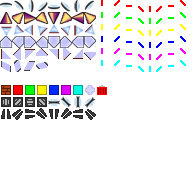
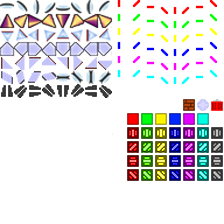
aggiunti filtri polarizzati colorati
git-svn-id: svn+ssh://pixbits.com/svn/cpp-lazers@19 c3e5c5ec-6158-4a85-881a-c4ab5472a772

diff --git a/pieces.h b/pieces.h
@@ -60,12 +60,14 @@ class Piece
     PieceType type_;
     Direction rotation_;
     LaserColor color_;
+    bool movable, roteable;
+  
     Field *field;
   
     virtual Position gfxTile() = 0;
   
   public:
-    Piece(PieceType type, Direction rotation, LaserColor color, Field *field) : type_(type), rotation_(rotation), color_(color), field(field) { }
+    Piece(PieceType type, Direction rotation, LaserColor color, Field *field) : type_(type), rotation_(rotation), color_(color), movable(true), roteable(true), field(field) { }
   
     Direction rotation() { return rotation_; }
     PieceType type() { return type_; }
@@ -77,6 +79,9 @@ class Piece
     virtual bool produceLaser() = 0;
     virtual bool blocksLaser(Laser &laser) = 0;
     virtual void receiveLaser(Laser &laser) = 0;
+  
+    virtual bool canBeMoved() = 0;
+    virtual bool canBeRotated() = 0;
   
     SDL_Rect gfxRect()
     {
@@ -105,7 +110,10 @@ class Wall : public Piece
     bool blocksLaser(Laser &laser) { UNUSED(laser); return true; }
     void receiveLaser(Laser &laser) { UNUSED(laser); }
   
-    Position gfxTile() { return Position(0,7); }
+    bool canBeMoved() { return movable; }
+    bool canBeRotated() { return false; }
+  
+    Position gfxTile() { return Position(13,7); }
 };
 
 class LaserSource : public Piece
@@ -116,6 +124,9 @@ class LaserSource : public Piece
     bool produceLaser() { return true; }
     bool blocksLaser(Laser &laser) { UNUSED(laser); return true; }
     void receiveLaser(Laser &laser) { UNUSED(laser); /*laser.invalidate();*/ }
+  
+    bool canBeMoved() { return movable; }
+    bool canBeRotated() { return roteable; }
   
     Position gfxTile() { return Position{rotation_, 1}; }
 };
@@ -141,6 +152,9 @@ class Mirror : public Piece
         laser.invalidate();
     }
   
+    bool canBeMoved() { return movable; }
+    bool canBeRotated() { return roteable; }
+  
     Position gfxTile() { return Position{rotation_, 0}; }
 };
 
@@ -164,8 +178,11 @@ class DoubleMirror : public Piece
       else
         laser.invalidate();
     }
-    
-    Position gfxTile() { return Position{static_cast<s8>(rotation_%4 + 4), 8}; }
+  
+    bool canBeMoved() { return movable; }
+    bool canBeRotated() { return roteable; }
+  
+    Position gfxTile() { return Position{static_cast<s8>(rotation_%4 + 4), 5}; }
 };
 
 class Splitter : public Piece
@@ -176,6 +193,9 @@ class Splitter : public Piece
     bool produceLaser() { return false; }
     bool blocksLaser(Laser &laser) { UNUSED(laser); return false; }
     void receiveLaser(Laser &laser);
+  
+    bool canBeMoved() { return movable; }
+    bool canBeRotated() { return roteable; }
   
     Position gfxTile() { return Position{rotation_, 2}; }
 };
@@ -188,7 +208,10 @@ class DSplitter : public Piece
     bool produceLaser() { return false; }
     bool blocksLaser(Laser &laser) { UNUSED(laser); return false; }
     void receiveLaser(Laser &laser);
-    
+  
+    bool canBeMoved() { return movable; }
+    bool canBeRotated() { return roteable; }
+  
     Position gfxTile() { return Position{rotation_, 3}; }
 };
 
@@ -200,6 +223,9 @@ public:
   bool produceLaser() { return false; }
   bool blocksLaser(Laser &laser) { UNUSED(laser); return false; }
   void receiveLaser(Laser &laser);
+  
+  bool canBeMoved() { return movable; }
+  bool canBeRotated() { return roteable; }
   
   Position gfxTile() { return Position{rotation_, 4}; }
 };
@@ -216,7 +242,10 @@ public:
     laser.rotateRight(1);
   }
   
-  Position gfxTile() { return Position{7, 7}; }
+  bool canBeMoved() { return movable; }
+  bool canBeRotated() { return false; }
+  
+  Position gfxTile() { return Position{14, 7}; }
 };
 
 class Filter : public Piece
@@ -230,23 +259,29 @@ class Filter : public Piece
     {
       laser.color = static_cast<LaserColor>(laser.color & color_);
     }
-    
-    Position gfxTile() { return Position{color_, 7}; }
+  
+    bool canBeMoved() { return movable; }
+    bool canBeRotated() { return false; }
+  
+    Position gfxTile() { return Position{color_+8, 8}; }
 };
 
 class Polarizer : public Piece
 {
   public:
-    Polarizer(Direction rotation, Field *field) : Piece(PIECE_POLARIZER, rotation, COLOR_NONE, field) { }
+    Polarizer(Direction rotation, LaserColor color, Field *field) : Piece(PIECE_POLARIZER, rotation, color, field) { }
     
     bool produceLaser() { return false; }
-    bool blocksLaser(Laser &laser) { return deltaDirection(laser)%4 != 0; }
+    bool blocksLaser(Laser &laser) { return deltaDirection(laser)%4 != 0 || (color_ & laser.color) == 0; }
     void receiveLaser(Laser &laser)
     {
-      UNUSED(laser);
+      laser.color = static_cast<LaserColor>(laser.color & color_);
     }
-    
-    Position gfxTile() { return Position{static_cast<s8>(rotation_%4), 8}; }
+  
+    bool canBeMoved() { return movable; }
+    bool canBeRotated() { return roteable; }
+  
+    Position gfxTile() { return Position{static_cast<s8>(color_+8), static_cast<s8>(9 + rotation_%4)}; }
 };
 
 class Tunnel : public Piece
@@ -261,8 +296,11 @@ class Tunnel : public Piece
       if (deltaDirection(laser) != 0)
         laser.invalidate();
     }
-    
-    Position gfxTile() { return Position{rotation_, 9}; }
+  
+    bool canBeMoved() { return movable; }
+    bool canBeRotated() { return roteable; }
+  
+    Position gfxTile() { return Position{rotation_, 6}; }
 };
 
 

diff --git a/lazers.cpp b/lazers.cpp
@@ -167,6 +167,7 @@ void Gfx::render(Game *game)
   #endif
 }
 
+
 void Gfx::drawField(Game *game)
 {
   Field *field = game->field();
@@ -187,7 +188,7 @@ void Gfx::drawField(Game *game)
       {
         if (tile->colors[i])
         {
-          SDL_Rect src = {static_cast<s16>(96+(PIECE_SIZE)*i),static_cast<s16>(PIECE_SIZE*(tile->colors[i]-1)),PIECE_SIZE,PIECE_SIZE};
+          SDL_Rect src = {static_cast<s16>(PIECE_SIZE*8+(PIECE_SIZE)*i),static_cast<s16>(PIECE_SIZE*(tile->colors[i]-1)),PIECE_SIZE,PIECE_SIZE};
           SDL_Rect dst = {static_cast<s16>(coordX(x, false)+1),static_cast<s16>(coordY(y)+1),0,0};
           SDL_BlitSurface(tiles, &src, screen, &dst);
         }
@@ -327,7 +328,7 @@ void Game::handleEvents()
           case SDLK_LCTRL: // A
           {
             Piece *piece = field_.tileAt(position->x, position->y)->piece();
-            if (piece)
+            if (piece && piece->canBeRotated())
             {
               piece->rotateRight();
               field_.updateLasers();
@@ -340,7 +341,7 @@ void Game::handleEvents()
           {
             Tile *curTile = field_.tileAt(*position);
             
-            if (!selectedTile_ && curTile->piece())
+            if (!selectedTile_ && curTile->piece() && curTile->piece()->canBeMoved())
             {
               selectedTile_ = curTile;
             }
@@ -349,11 +350,15 @@ void Game::handleEvents()
             else if (selectedTile_)
             {
               Piece *tmpPiece = selectedTile_->piece();
-              selectedTile_->place(curTile->piece());
-              curTile->place(tmpPiece);
-              //std::swap(selectedTile_->piece, curTile->piece);
-              selectedTile_ = nullptr;
-              field_.updateLasers();
+              
+              if (!tmpPiece || tmpPiece->canBeMoved())
+              {
+                selectedTile_->place(curTile->piece());
+                curTile->place(tmpPiece);
+                //std::swap(selectedTile_->piece, curTile->piece);
+                selectedTile_ = nullptr;
+                field_.updateLasers();
+              }
             }
             
             break;
@@ -362,7 +367,7 @@ void Game::handleEvents()
           case SDLK_LSHIFT: // X
           {
             Piece *piece = field_.tileAt(position->x, position->y)->piece();
-            if (piece)
+            if (piece && piece->canBeRotated())
             {
               piece->rotateLeft();
               field_.updateLasers();
@@ -379,25 +384,13 @@ void Game::handleEvents()
             
           case SDLK_TAB: // L
           {
-            Piece *piece = field_.tileAt(position->x, position->y)->piece();
-            if (piece)
-            {
-              piece->rotateLeft();
-              field_.updateLasers();
-            }
-            
+
             
             break;
           }
             
           case SDLK_BACKSPACE: // R
           {
-            Piece *piece = field_.tileAt(position->x, position->y)->piece();
-            if (piece)
-            {
-              piece->rotateRight();
-              field_.updateLasers();
-            }
             
             break;
           }

diff --git a/lazers.h b/lazers.h
@@ -148,7 +148,8 @@ class Field
 
       }
       
-      tileAt(2,14)->place(new Polarizer(NORTH, this));
+      tileAt(2,14)->place(new Polarizer(NORTH, COLOR_MAGENTA, this));
+      tileAt(1,14)->place(new Polarizer(NORTH, COLOR_WHITE, this));
       tileAt(3,14)->place(new Tunnel(NORTH, this));
 
       tileAt(3,3)->place(new Mirror(NORTH, this));

diff --git a/common.h b/common.h
@@ -23,7 +23,7 @@ static const u16 INVENTORY_WIDTH = 6;
 static const u16 INVENTORY_HEIGHT = 4;
 
 static const u16 TILE_SIZE = 15;
-static const u16 PIECE_SIZE = 12;
+static const u16 PIECE_SIZE = 14;
 
 static const u16 GFX_FIELD_POS_X = 0;
 static const u16 GFX_FIELD_POS_Y = 5;
